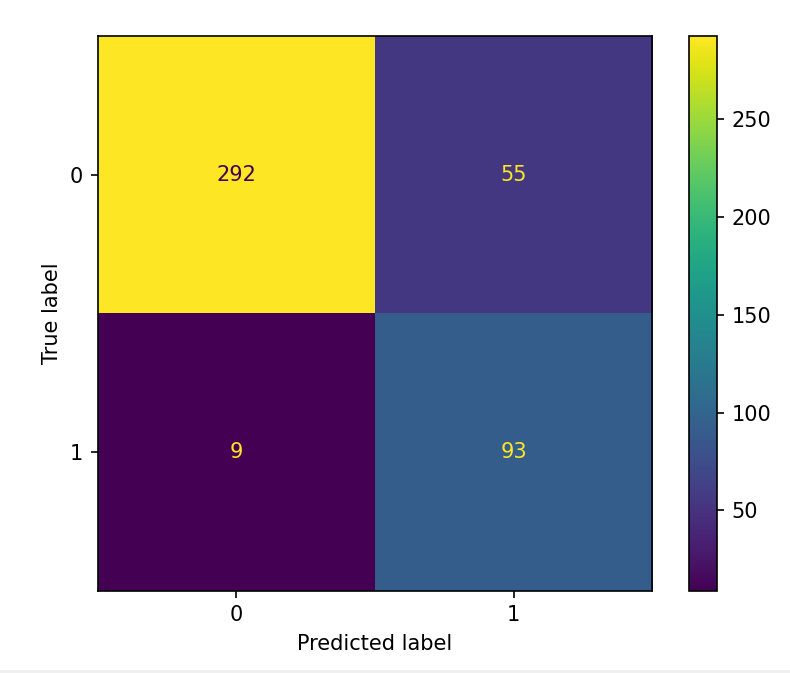
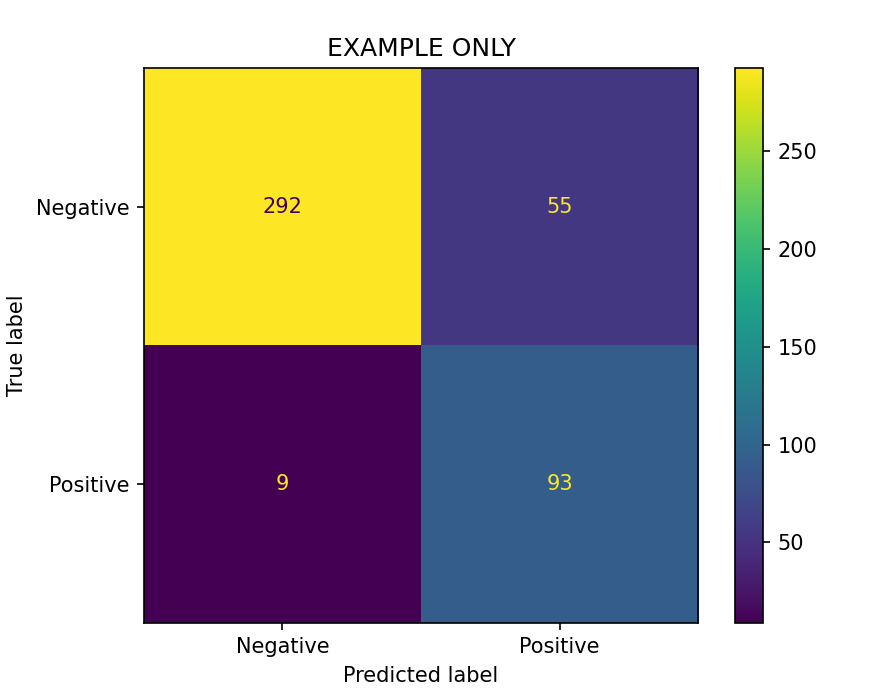
making clear the cm is an example only

diff --git a/template/model_card_template.md b/template/model_card_template.md
@@ -87,6 +87,8 @@ _Note: The metrics and visual in this section is an example only and is not inte
 | Precision | 0.00 |
 | Recall | 0.00 |
 
+_The below confusion matrix is an example of how to include an image in this model card - visuals can be helpful but it is not a requirement to use a confusion matrix._
+
 <img src="./images/example-cm.png" width="400"/><br>
 
 **Performance in Deployment**: Detail the perfomance of the model in deployment once monitoring is completed. State any considerations taken for the model inference time and provide the results in brief.
